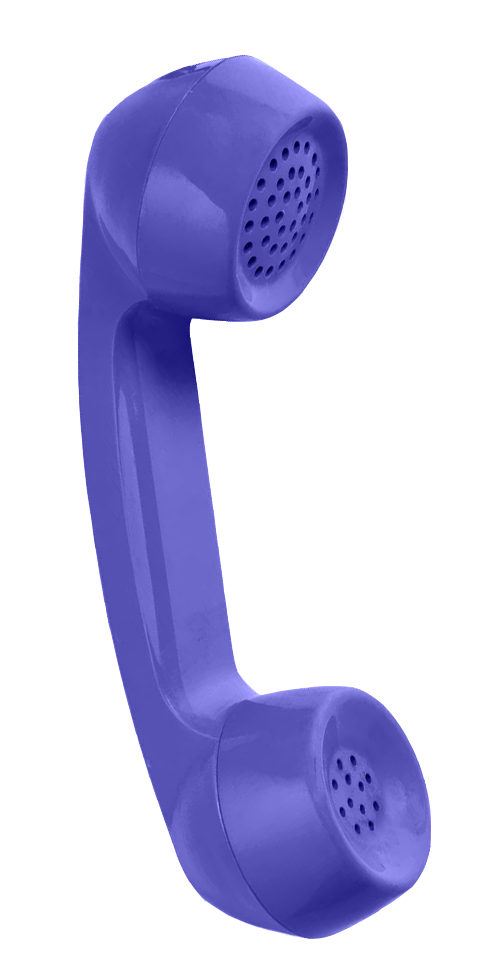
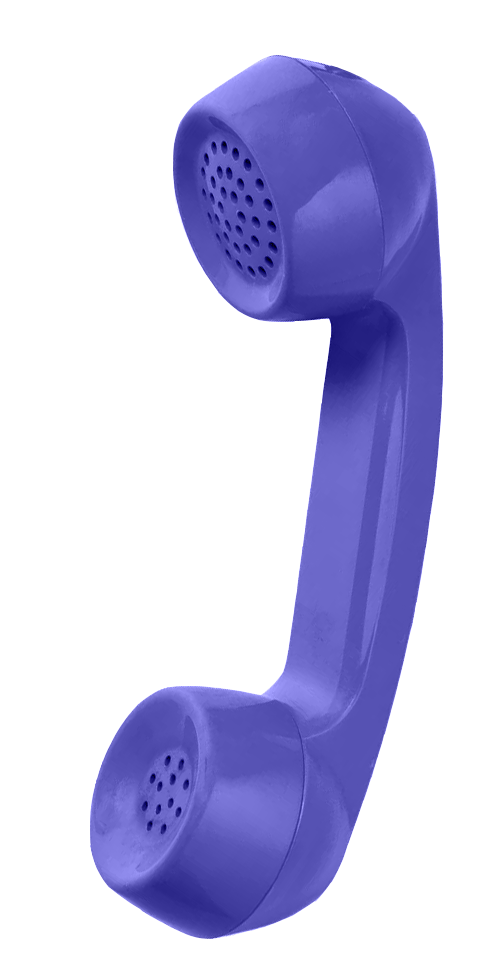
feat: refactor ContactSection and Signature components for improved layout and responsiveness

diff --git a/src/compotents/Signature.jsx b/src/compotents/Signature.jsx
@@ -1,10 +1,24 @@
 import { useEffect, useState, useRef } from "react";
 import { motion, useScroll, useTransform } from "motion/react";
 
-export default function Signature() {
+export default function Signature({ introRef, contactRef }) {
   const [paths, setPaths] = useState([]);
   const [viewBox, setViewBox] = useState("");
-  const { scrollYProgress } = useScroll();
+  const [endPoint, setEndPoint] = useState({ x: 0, y: 0 });
+  const [scrollTarget, setScrollTarget] = useState(null);
+
+  // Brug useEffect for at vente på, at refs er tilgængelige
+  useEffect(() => {
+    if (introRef?.current && contactRef?.current) {
+      setScrollTarget([introRef.current, contactRef.current]);
+    }
+  }, [introRef, contactRef]);
+
+  // Kun opret useScroll når scrollTarget eksisterer
+  const { scrollYProgress } = useScroll({
+    target: scrollTarget,
+    offset: ["start start", "end end"],
+  });
 
   const pathRef = useRef(null);
   const pathLength = useTransform(scrollYProgress, [0, 1], [0, 1]);
@@ -17,58 +31,92 @@ export default function Signature() {
     const res = await fetch("/signature.json");
     const data = await res.json();
 
-   const isMobile = window.innerWidth < 768;
-   const selected = isMobile ? data.mobile : data.desktop;
-   setViewBox(selected.viewBox);
-   setPaths(selected.paths);
+    const isMobile = window.innerWidth < 768;
+    const selected = isMobile ? data.mobile : data.desktop;
+    setViewBox(selected.viewBox);
+    setPaths(selected.paths);
   }
+
+  useEffect(() => {
+    if (pathRef.current) {
+      const pathEl = pathRef.current;
+      const point = pathEl.getPointAtLength(pathEl.getTotalLength());
+
+      // Konverter til skærmpixels
+      const pt = pathEl.ownerSVGElement.createSVGPoint();
+      pt.x = point.x;
+      pt.y = point.y;
+      const screenPoint = pt.matrixTransform(
+        pathEl.ownerSVGElement.getScreenCTM()
+      );
+
+      setEndPoint({ x: screenPoint.x, y: screenPoint.y });
+    }
+  }, [paths]);
 
   console.log(paths);
 
+  if (!viewBox || !paths.length) {
+    return null;
+  } //sørger for at der er data før der renderes
+
   return (
-    <motion.svg
-      id="Layer_1"
-      data-name="Layer 1"
-      xmlns="http://www.w3.org/2000/svg"
-      viewBox={viewBox}
-      className="signature"
-    >
-      <g id="Layer_1-2" data-name="Layer 1-2">
-        {paths.map((path, index) => {
-          const MotionComponent = motion.path;
+    <div id="signature-container">
+      <motion.svg
+        id="Layer_1"
+        data-name="Layer 1"
+        xmlns="http://www.w3.org/2000/svg"
+        viewBox={viewBox}
+        className="signature"
+      >
+        <g id="Layer_1-2" data-name="Layer 1-2">
+          {paths.map((path, index) => {
+            const MotionComponent = motion.path;
+            const ref = path.scroll ? pathRef : null;
 
-          if (path.scroll) {
-            // Scroll-baseret animation
-
-            return (
-              <MotionComponent
-                key={index}
-                ref={pathRef}
-                d={path.d}
-                className={path.className}
-                initial={{ pathLength: 0 }}
-                style={{ pathLength }}
-              />
-            );
-          } else {
-            // Automatisk animation
-            return (
-              <MotionComponent
-                key={index}
-                className={path.className}
-                d={path.d}
-                initial={{ strokeDashoffset: 1000 }}
-                animate={{ strokeDashoffset: 0 }}
-                transition={{
-                  duration: path.duration,
-                  delay: path.delay,
-                  ease: "easeOut",
-                }}
-              />
-            );
-          }
-        })}
-      </g>
-    </motion.svg>
+            if (path.scroll) {
+              return (
+                <MotionComponent
+                  key={index}
+                  ref={ref}
+                  d={path.d}
+                  className={path.className}
+                  initial={{ pathLength: 0 }}
+                  style={{ pathLength }}
+                />
+              );
+            } else {
+              // Automatisk animation
+              return (
+                <MotionComponent
+                  key={index}
+                  className={path.className}
+                  d={path.d}
+                  initial={{ strokeDashoffset: 1000 }}
+                  animate={{ strokeDashoffset: 0 }}
+                  transition={{
+                    duration: path.duration,
+                    delay: path.delay,
+                    ease: "easeOut",
+                  }}
+                />
+              );
+            }
+          })}
+        </g>
+      </motion.svg>
+      <img
+        src="/img/phone.png"
+        alt="End of scroll path"
+        id="phone"
+        style={{
+          position: "absolute",
+          left: `${endPoint.x}px`,
+          top: `${endPoint.y}px`,
+          transform: "translate(-55%, -17%)", // justér efter behov
+          pointerEvents: "none",
+        }}
+      />
+    </div>
   );
 }

diff --git a/src/pages/HomePage.jsx b/src/pages/HomePage.jsx
@@ -1,7 +1,6 @@
 import { useState, useEffect, useRef } from "react";
 import ProjectCard from "../compotents/ProjectCard";
 import Signature from "../compotents/Signature";
-import SignatureTest from "../compotents/SignatureTest";
 import SkillSection from "../compotents/SkillSection";
 import ContactSection from "../compotents/ContactSection";
 
@@ -9,6 +8,8 @@ import ContactSection from "../compotents/ContactSection";
 export default function HomePage({scrollTo}) {
   const [projects, setProjects] = useState([]);
    const projectRef = useRef(null);
+   const introRef = useRef(null);
+   const contactRef = useRef(null);
 
   useEffect(() => {
     if (scrollTo === "projects" && projectRef.current) {
@@ -38,7 +39,7 @@ export default function HomePage({scrollTo}) {
     <>
       <div id="top"></div>
       <main className="page">
-        <section className="intro">
+        <section ref={introRef} className="intro">
           <div className="heading-mobile">
             <h1>Multi</h1>
             <h1>Medie</h1>
@@ -49,19 +50,16 @@ export default function HomePage({scrollTo}) {
             <h1>Designer</h1>
           </div>
 
-          {/* 
-          <SignatureTest /> */}
-
-          {/* <Signature /> */}
+          <Signature />
         </section>
-        <Signature />
+
         <section ref={projectRef} className="project-section">
           {projects.map((project) => (
             <ProjectCard key={project.id} project={project} />
           ))}
         </section>
         <SkillSection />
-        <ContactSection page="home" />
+        <ContactSection ref={contactRef} page="home" />
       </main>
     </>
   );

diff --git a/src/compotents/ContactSection.jsx b/src/compotents/ContactSection.jsx
@@ -1,29 +1,31 @@
 import ContactCTA from "./ContactCTA";
+import { forwardRef } from "react";
 
-export default function ContactSection({page}) {
-
-    if (page === "home"){
-        return (
-          <section className="contact-section">
-              <h1>Mangler I praktikant?</h1>
-              <ContactCTA />
-          </section>
-        );
+const ContactSection = forwardRef(({page}, ref) => {
+    if (page === "home") {
+      return (
+        <section ref={ref} className="contact-section">
+          <h1>Mangler I praktikant?</h1>
+          <ContactCTA />
+        </section>
+      );
+    } else if (page === "kontakt") {
+      return (
+        <section ref={ref} className="contact-section">
+          <h1>Lad os snakke</h1>
+          <div>
+            <h3>RING</h3>
+            <a href="tel:+4529451049">+45 29 45 10 49</a>
+          </div>
+          <div>
+            <h3>SKRIV</h3>
+            <a href="mailto:stine.b.lock@gmail.dk">stine.b.lock@gmail.com</a>
+          </div>
+        </section>
+      );
     }
 
-    else if (page === "kontakt"){
-  return (
-    <section className="contact-section">
-      <h1>Lad os snakke</h1>
-      <div>
-        <h3>RING</h3>
-        <a href="tel:+4529451049">+45 29 45 10 49</a>
-      </div>
-      <div>
-        <h3>SKRIV</h3>
-        <a href="mailto:stine.b.lock@gmail.dk">stine.b.lock@gmail.com</a>
-      </div>
-    </section>
-  );
-}
-}
+
+});
+
+export default ContactSection;

diff --git a/src/index.css b/src/index.css
@@ -180,10 +180,24 @@ hr {
 .signature {
   position: absolute;
   top: 9%;
-  left: 25%;
+  left: 10%;
   min-width: 261px;
   min-height: 600px;
-  max-width: 60%;
+  max-width: 300px;
+}
+
+.signature-container {
+  position: absolute;
+  top: 0;
+  left: 0;
+  width: 100%;
+  height: 100%;
+  pointer-events: none;
+  z-index: 5;
+}
+
+#phone{
+  width: 30%;
 }
 
 .cls-1 {
@@ -532,9 +546,9 @@ footer a img {
   .signature {
    top: 12%;
   left: 25%;
-  min-width: 261px;
+  min-width: 200px;
   min-height: 600px;
-  max-width: 60%;
+  max-width: 50%;
   }
 
   footer {
